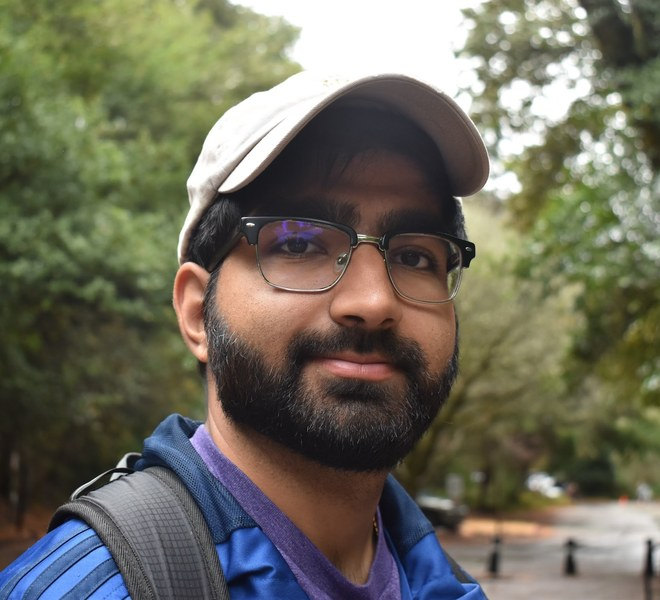
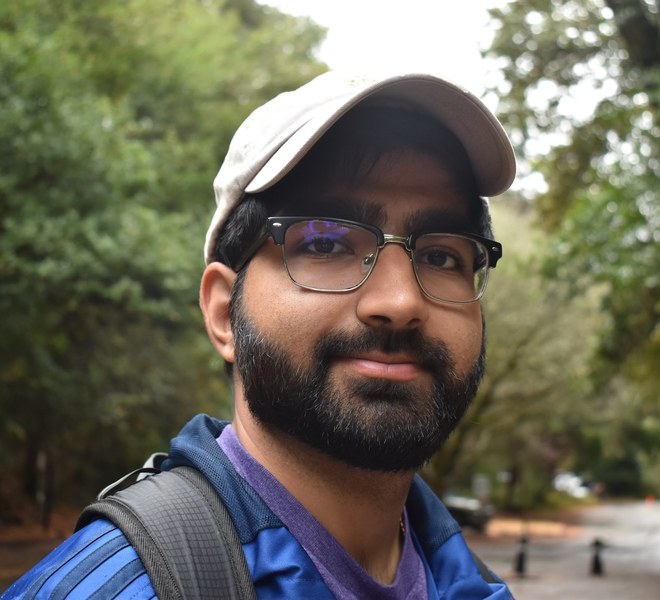
Revise bio and recenter photo
Claude-Session: https://claude.ai/code/session_011cc664bjic1ienmw6yxZz2

diff --git a/index.html b/index.html
@@ -37,13 +37,12 @@
       <p>
         I am the Head of Machine Learning at
         <a href="https://www.epsilonhealth.ai/">Epsilon Health</a> in San
-        Francisco, where we train image encoders and vision-language models
+        Francisco, where I train image encoders and vision-language models
         for radiology.
       </p>
       <p>
-        Before that, I spent six years at
-        <a href="https://deepmind.google/">Google DeepMind</a> and
-        <a href="https://research.google/">Google Research</a> working with
+        Before that, I spent six years at Google DeepMind and Google
+        Research working with
         <a href="https://andrefaraujo.github.io/">André Araujo</a> on a
         multitude of computer vision topics: vision foundation models,
         vision-language pretraining, 3D reconstruction, image retrieval.
